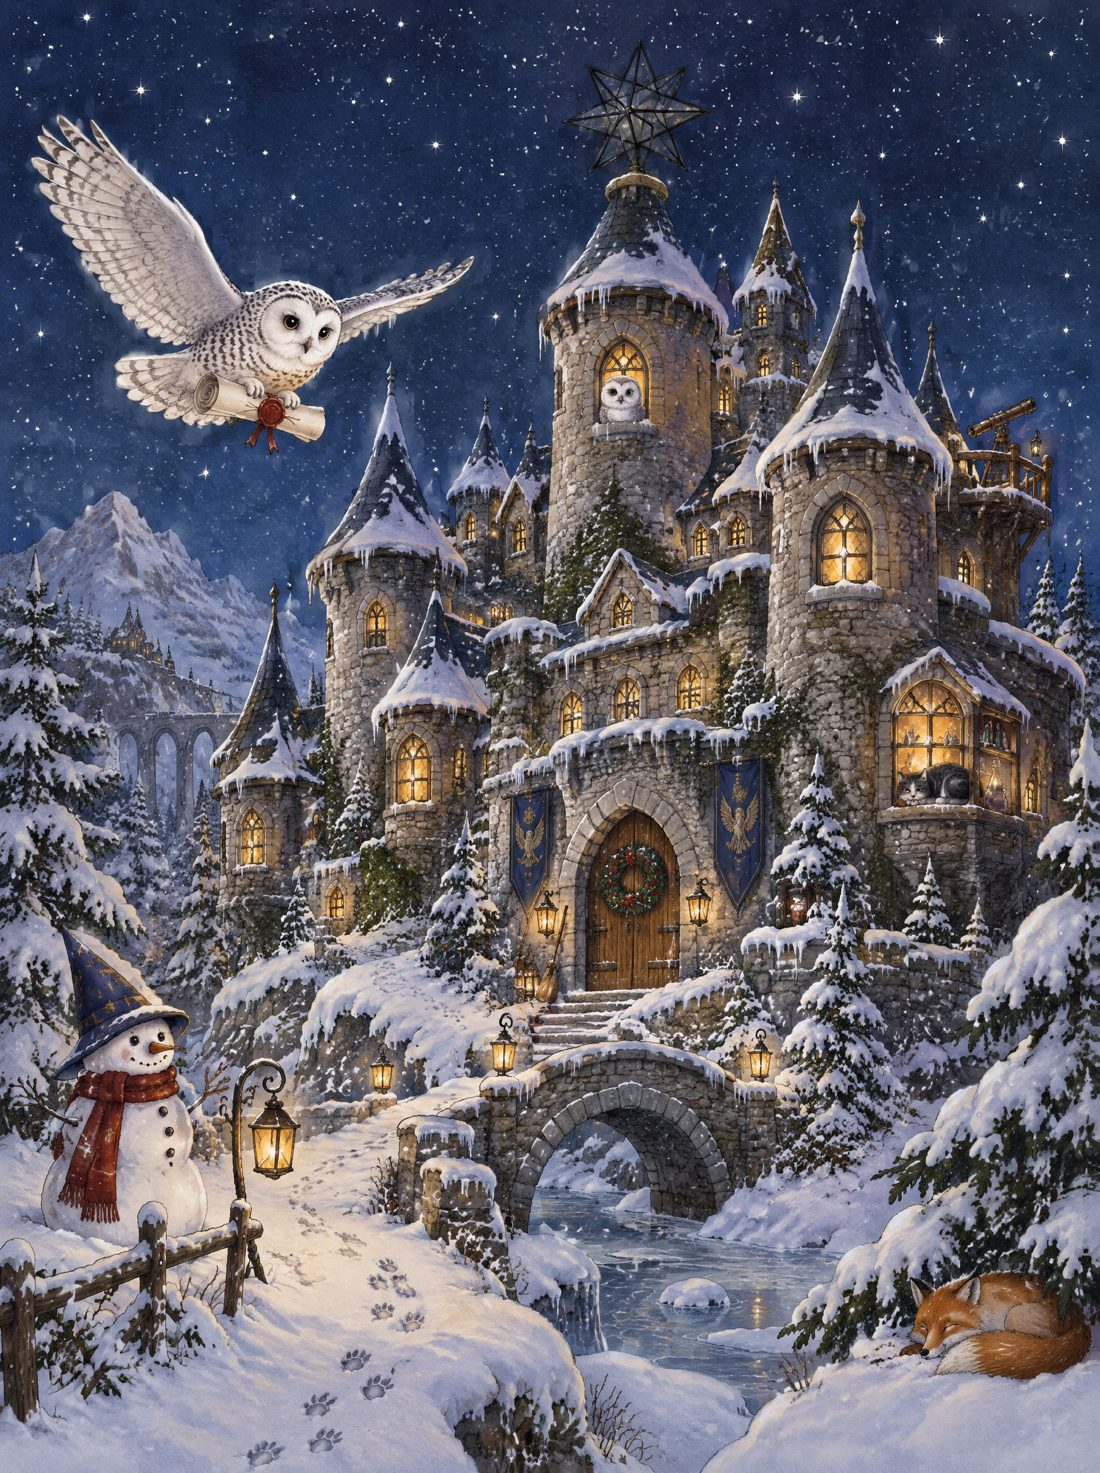
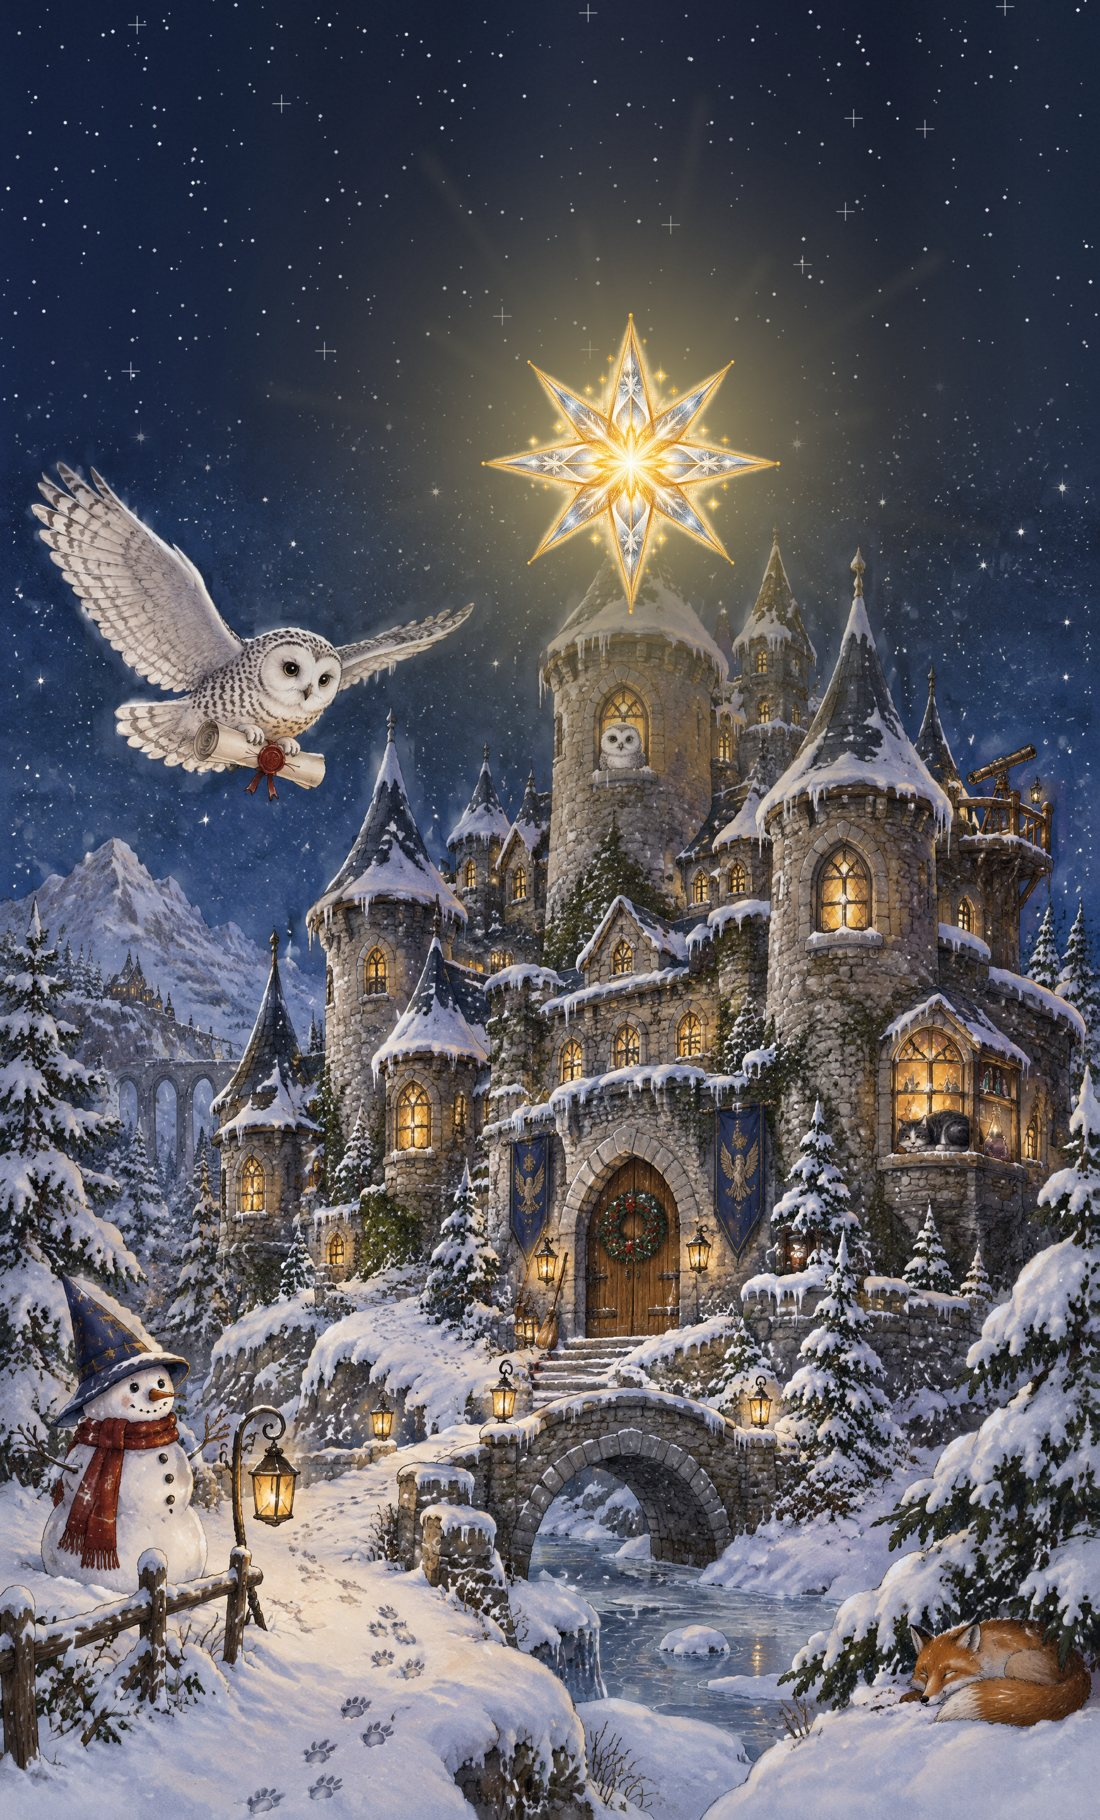
Startbild mit leuchtendem Winterstern über der Burg
Claude-Session: https://claude.ai/code/session_013ksHH11Wr7X8jeXugVvtga

diff --git a/index.html b/index.html
@@ -8,7 +8,7 @@
 <meta name="robots" content="noindex">
 <link rel="preconnect" href="https://fonts.googleapis.com"><link rel="preconnect" href="https://fonts.gstatic.com" crossorigin>
 <link href="https://fonts.googleapis.com/css2?family=Cinzel:wght@500;700&family=Cinzel+Decorative:wght@700&family=Cormorant+Garamond:ital,wght@0,500;0,700;1,500;1,700&family=Pinyon+Script&display=swap" rel="stylesheet">
-<link rel="stylesheet" href="style.css?v=7">
+<link rel="stylesheet" href="style.css?v=8">
 </head>
 <body>
 <canvas id="snow"></canvas>
@@ -151,11 +151,11 @@
 </div>
 <div id="toast" class="toast"></div>
 <audio id="music" src="musik.mp3" loop preload="auto"></audio>
-<script src="icons.js?v=7"></script>
+<script src="icons.js?v=8"></script>
 <script src="gate.js"></script>
-<script src="data.js?v=7"></script>
-<script src="stimmen.js?v=7"></script>
-<script src="app.js?v=7"></script>
-<script src="widgets.js?v=7"></script>
+<script src="data.js?v=8"></script>
+<script src="stimmen.js?v=8"></script>
+<script src="app.js?v=8"></script>
+<script src="widgets.js?v=8"></script>
 </body>
 </html>

diff --git a/style.css b/style.css
@@ -620,3 +620,8 @@ h1 em{display:block;font-style:normal;color:var(--gold);font-size:46px;font-fami
 .start-sky{background-position:30% 45%}
 #s-start .codebox{background:rgba(8,12,34,.62);-webkit-backdrop-filter:blur(6px);backdrop-filter:blur(6px);border:1px solid rgba(233,199,123,.35);border-radius:16px;padding:14px 14px 8px;width:min(100%,360px)}
 #s-start .codebox input{background:rgba(255,255,255,.08)}
+/* Winterstern im Startbild sichtbar zwischen Titel und Codefeld */
+.start-sky{top:15vh;background:#0b1330 url(z/start.jpg) 50% 0/cover no-repeat!important}
+#s-start{background:#0b1330 url(z/start.jpg) 50% 0/100% auto no-repeat}
+#s-start::before{content:'';position:absolute;inset:0;background:#0b1330}
+.start-sky::after{background:linear-gradient(180deg,rgba(11,19,48,1) 0%,rgba(11,19,48,.35) 10%,rgba(8,12,34,.02) 24%,rgba(8,12,34,0) 52%,rgba(8,12,34,.75) 82%,rgba(8,12,34,.94) 100%)!important}
